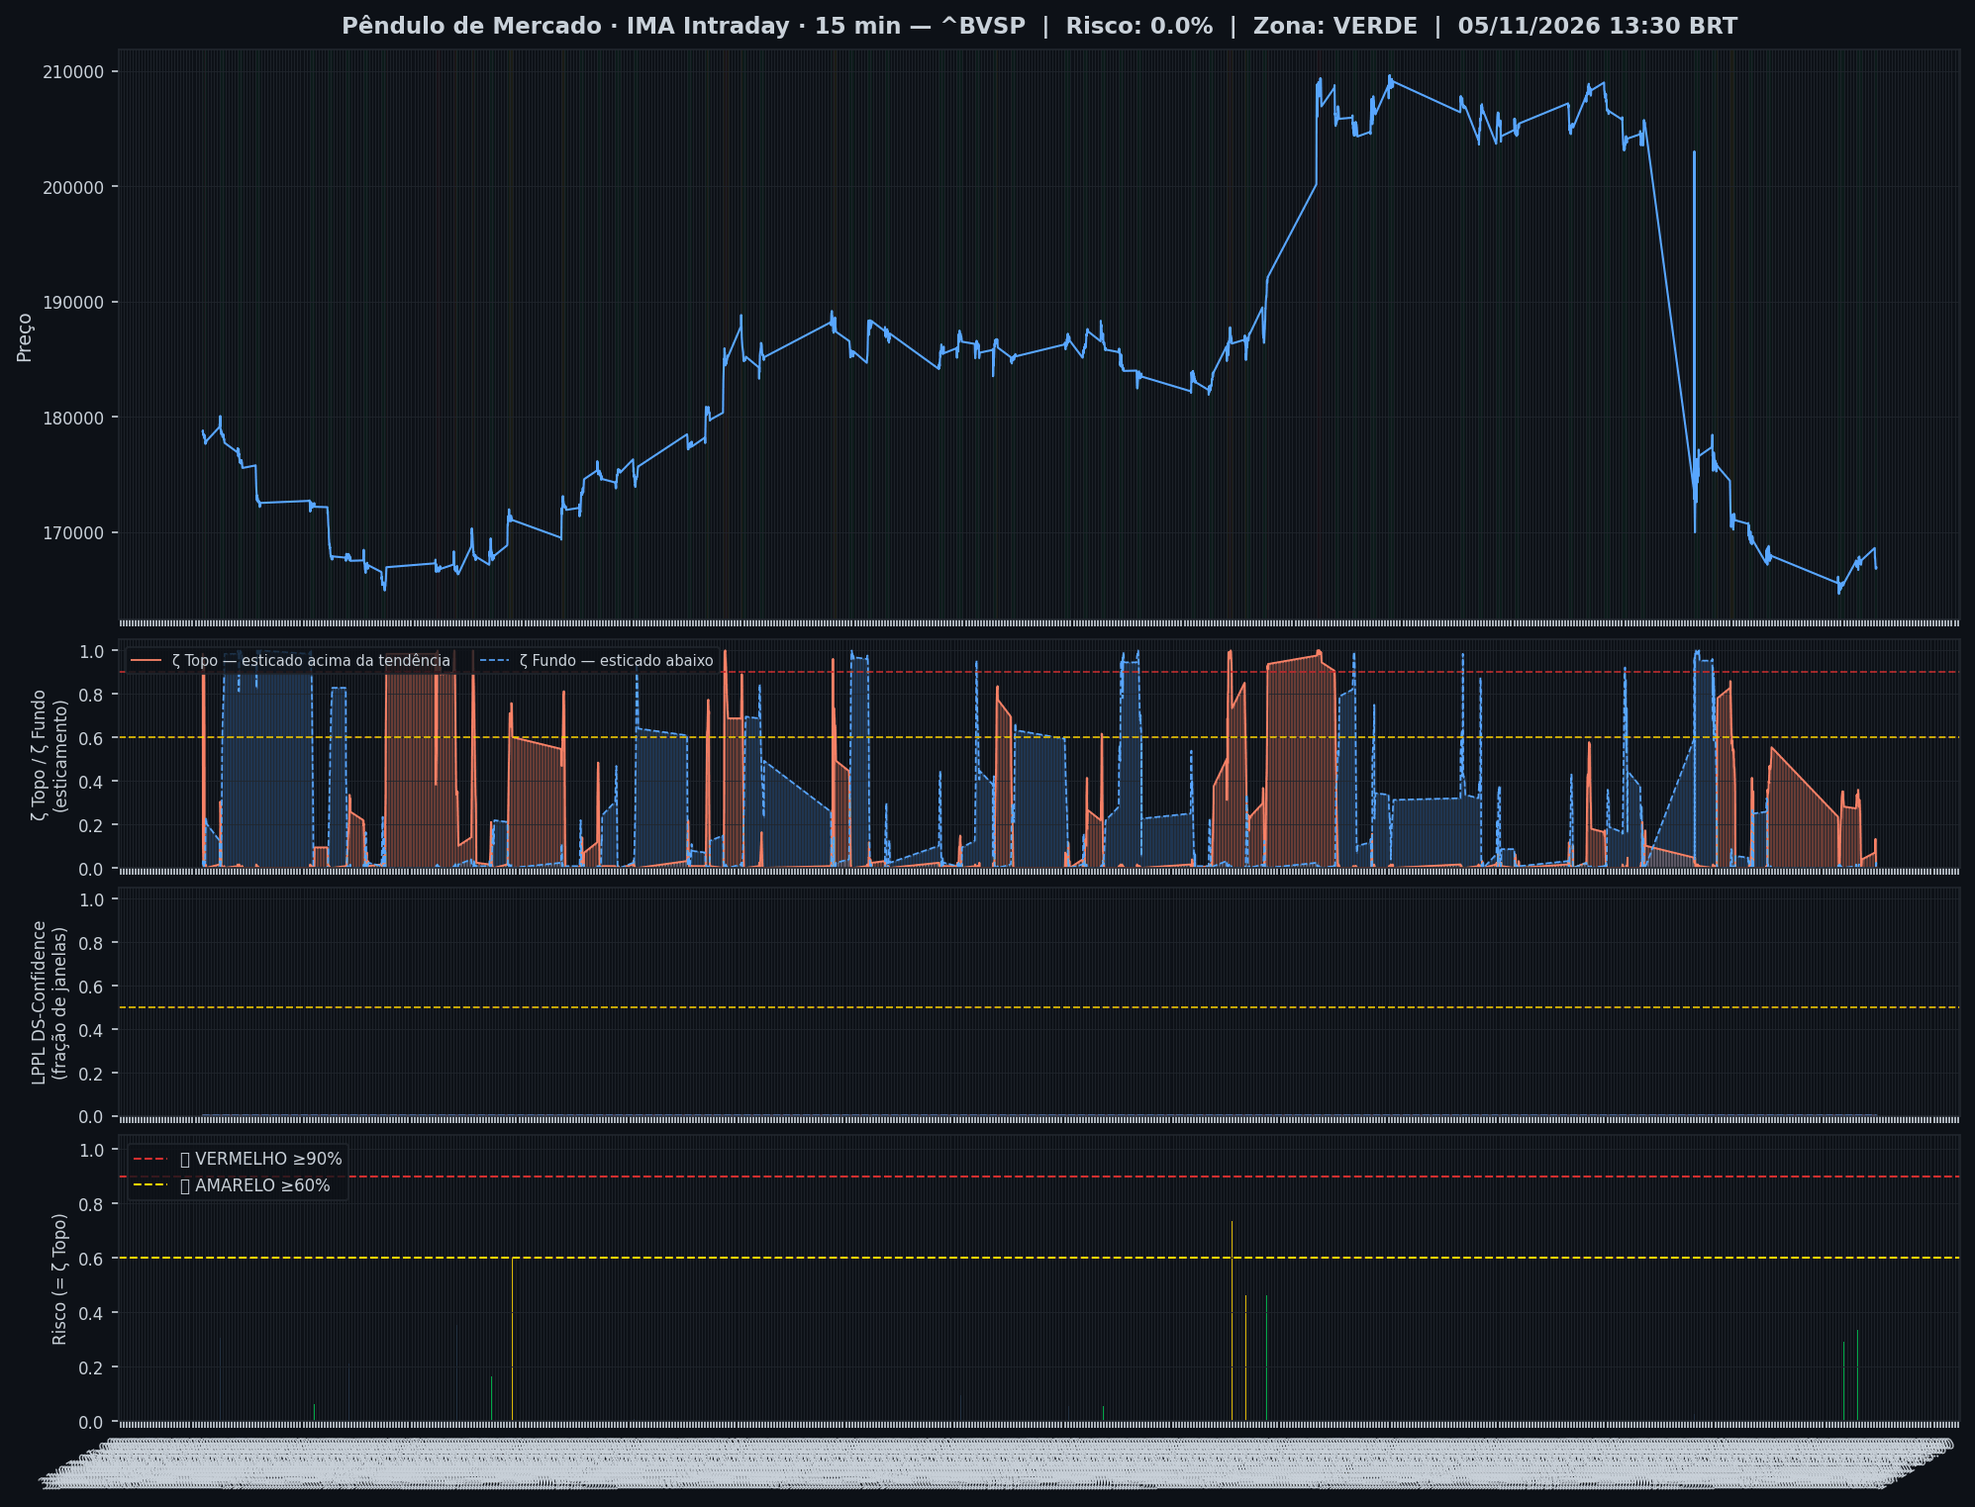
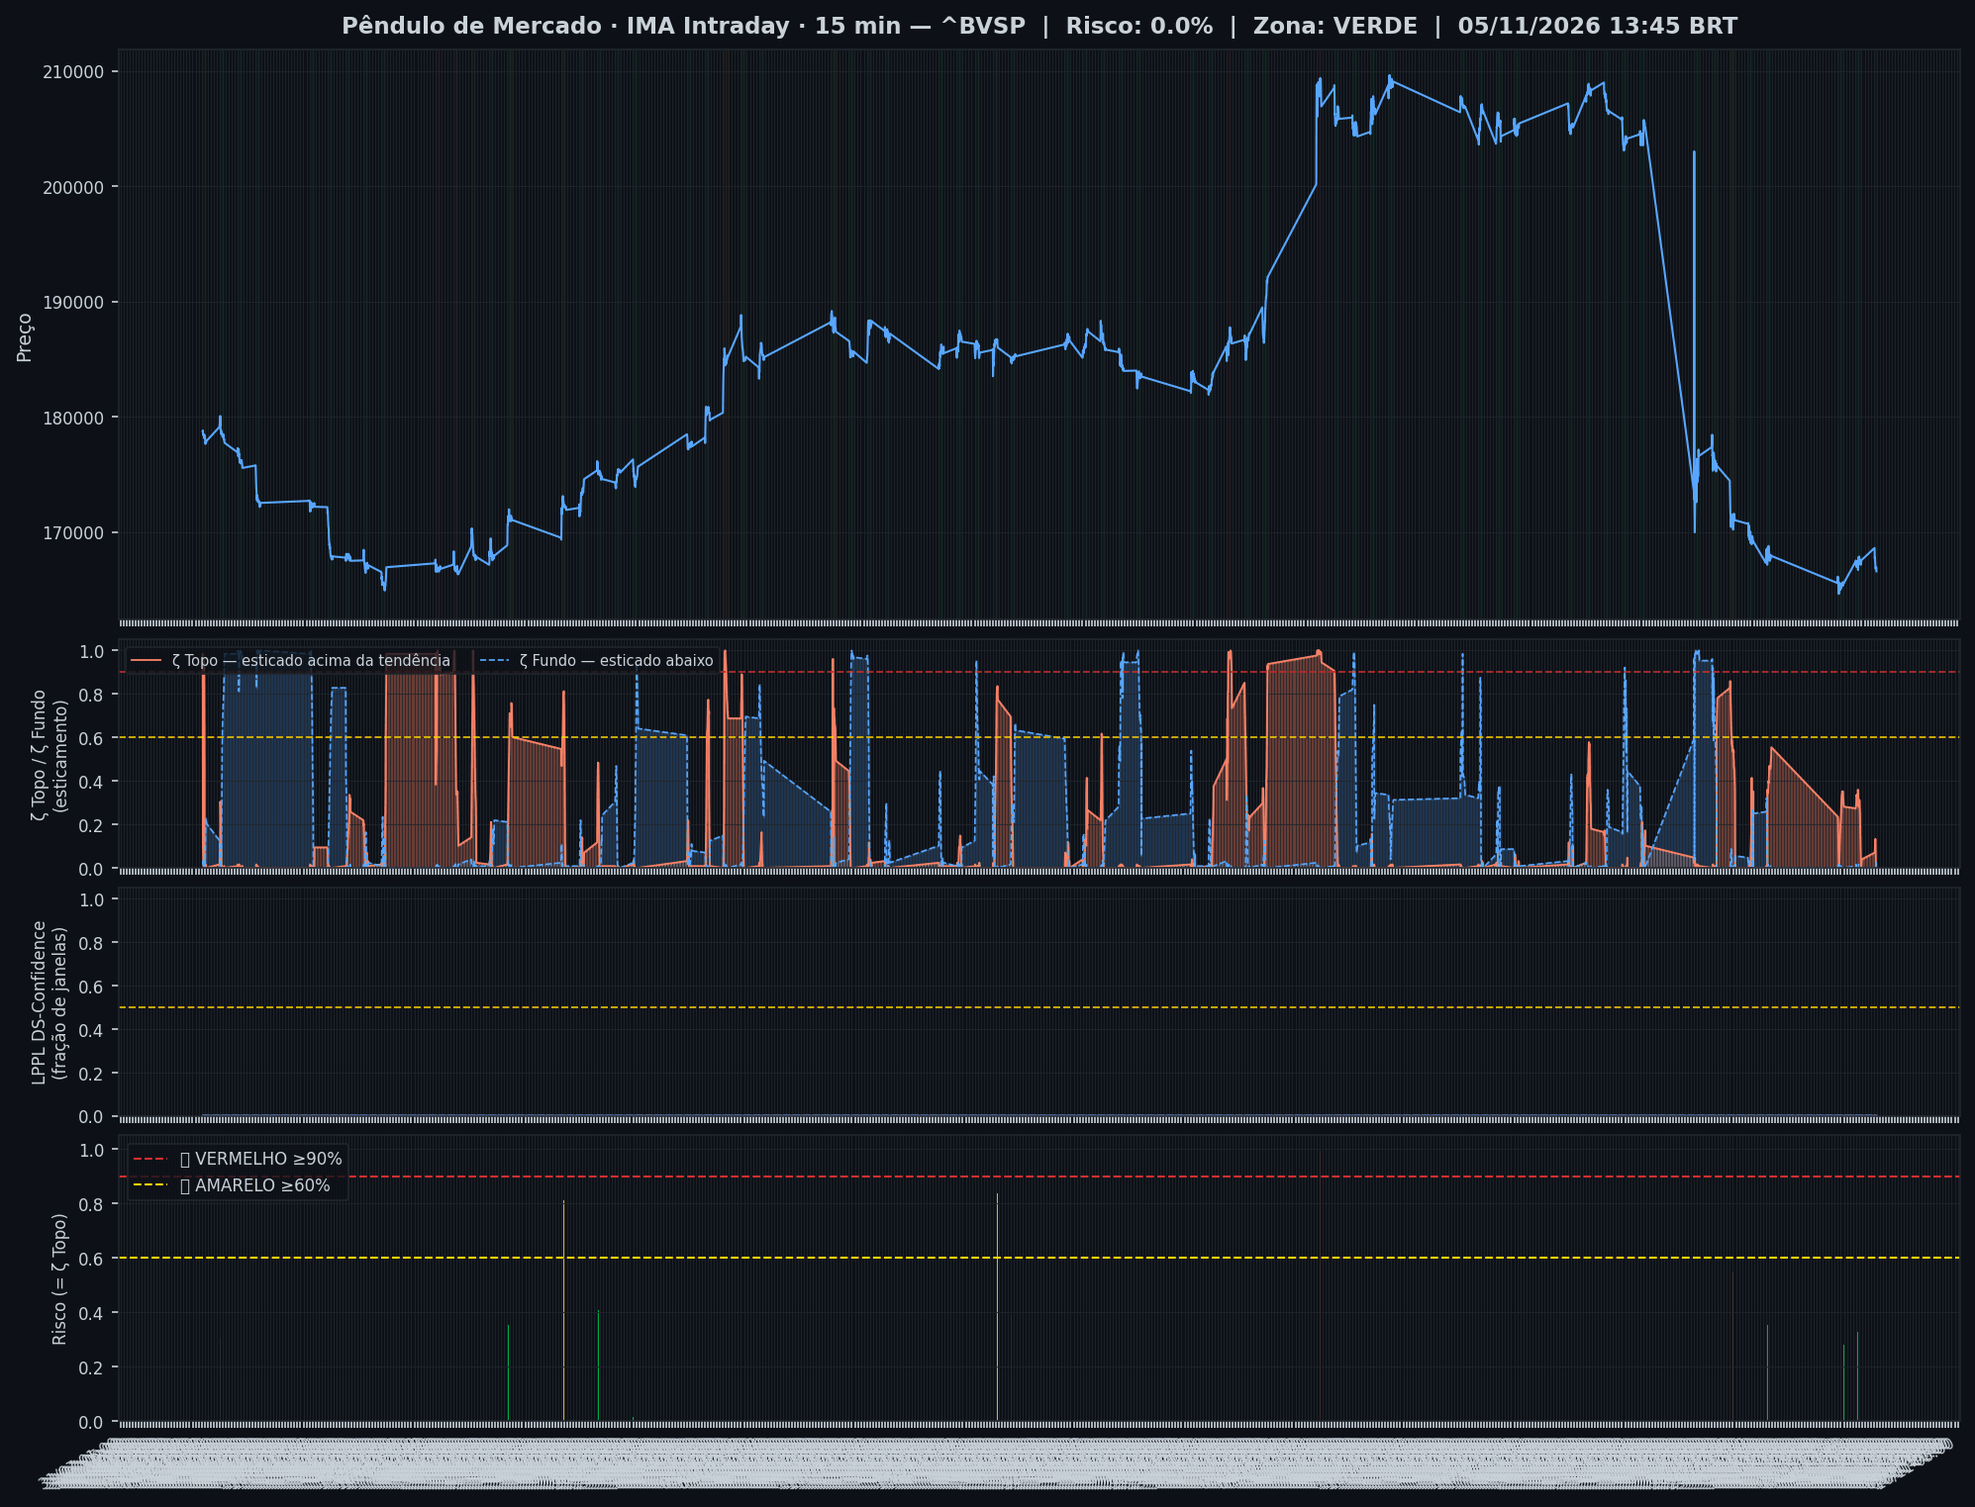
🤖 Auto: Sinal 05/11/2026 14:00

diff --git a/content/intraday/2026-11-05.md b/content/intraday/2026-11-05.md
@@ -1,10 +1,10 @@
 ---
-title: "🟢 Intraday 05/11/2026 13:30 BRT — VERDE"
+title: "🟢 Intraday 05/11/2026 13:45 BRT — VERDE"
 date: 2026-11-05
 tags: [intraday]
 ---
 
-> [!success] Onde o mercado está agora (05/11 13:30, candles de 15 min): **🟢 Calmo**
+> [!success] Onde o mercado está agora (05/11 13:45, candles de 15 min): **🟢 Calmo**
 > `Pânico ◀──────────●──────────▶ Euforia`
 >
 > O Ibovespa está dentro da sua faixa normal, sem excesso para cima nem para baixo.
@@ -16,11 +16,11 @@ tags: [intraday]
 > | Módulo | Agora | |
 > |---|---|---|
 > | 📈 **Tendência MME9** | Diário — fora<br>Semanal — fora | [abrir](operacoes/tendencia) |
-> | 🎯 **Entradas do método** | ⏳ aguardando: Diário · Nadaraya, H4 · Semáforo N2, Diário · Semáforo N3 após ζ Fundo | [abrir](operacoes/entradas) |
+> | 🎯 **Entradas do método** | ⏳ aguardando: Diário · Nadaraya, Diário · Semáforo N3 após ζ Fundo | [abrir](operacoes/entradas) |
 > | 📍 **Sinais** | hoje: nenhum sinal | [abrir](sinais-topo-fundo/) |
 > | 🧪 **Placar ao vivo** | 1 operação(ões), 0 com lucro, soma -0,8% | [abrir](operacoes/) |
 
-> [!success] IMA Intraday · 15 min (05/11 13:30): 🟢 **VERDE** — Risco 0% · ＝ +0 p.p. vs leitura anterior
+> [!success] IMA Intraday · 15 min (05/11 13:45): 🟢 **VERDE** — Risco 0% · ＝ +0 p.p. vs leitura anterior
 > `░░░░░░░░░░░░░░░░░░░░`
 > Preço na faixa normal em torno da tendência.
 
@@ -32,13 +32,13 @@ tags: [intraday]
 >
 > *Leitura educacional baseada em 26 anos de dados, não recomendação. [Como usar](../metodologia/crise#3-como-usar-na-prática).*
 
-| Indicador — IMA Intraday · 15 min (05/11 13:30) | Valor |
+| Indicador — IMA Intraday · 15 min (05/11 13:45) | Valor |
 |---|---|
 | 🔴 ζ Topo — preço esticado acima da tendência | **0%** |
-| 🔵 ζ Fundo — preço esticado abaixo da tendência | 2% |
+| 🔵 ζ Fundo — preço esticado abaixo da tendência | 0% |
 | 🫧 LPPL bolha — alta super-exponencial (risco de crash) | 0% |
 | 🫧 LPPL antibolha — queda super-exponencial (risco de repique) | 0% |
-| 📊 Ibovespa | 166.904 pts |
+| 📊 Ibovespa | 166.577 pts |
 
 ![Gráfico do sinal](../graficos/sinal_intraday.png)
 
@@ -46,6 +46,7 @@ tags: [intraday]
 
 | Data | Zona | Evento | Risco | ζ Topo | ζ Fundo | LPPL |
 |---|---|---|---|---|---|---|
+| 2026-11-05 13:45 | 🟢 VERDE |  | **0%** | 0% | 0% | 0% |
 | 2026-11-05 13:30 | 🟢 VERDE |  | **0%** | 0% | 2% | 0% |
 | 2026-11-05 13:15 | 🟢 VERDE |  | **0%** | 0% | 2% | 0% |
 | 2026-11-05 13:00 | 🟢 VERDE |  | **0%** | 0% | 2% | 0% |
@@ -75,7 +76,6 @@ tags: [intraday]
 | 2026-11-04 14:00 | 🟢 VERDE |  | **29%** | 29% | 2% | 0% |
 | 2026-11-04 13:45 | 🟢 VERDE |  | **28%** | 28% | 1% | 0% |
 | 2026-11-04 13:30 | 🟢 VERDE |  | **29%** | 29% | 0% | 0% |
-| 2026-11-04 13:15 | 🟢 VERDE |  | **34%** | 34% | 0% | 0% |
 
 <small>Destaques: 🟡 ≥ 60% · 🔴 ≥ 90% (Risco e ζ Topo) · 🔵 ≥ 60% · 🔪 ≥ 90% (ζ Fundo) · 🫧 ≥ 30% · 🫧🔴 ≥ 50% (LPPL)</small>
 
@@ -84,33 +84,33 @@ tags: [intraday]
 **0% dos ativos em tensão** (0🔴 0🟡) · **2 com ζ Fundo alto** — quanto mais ativos disparam juntos, mais confiável o sinal.
 
 > [!warning] Em destaque no multi-ativo
-> 🔵 **WEG** ζ Fundo 66% · 🔵 **PRIO** ζ Fundo 64%
+> 🔵 **WEG** ζ Fundo 68% · 🔵 **PRIO** ζ Fundo 66%
 
 | Zona | Ativo | Setor | ζ Topo | ζ Fundo |
 |---|---|---|---|---|
-| 🟢 | **WEG** | Industrial | 0.0% | 🔵 **65.6%** |
-| 🟢 | **PRIO** | Petróleo | 0.0% | 🔵 **64.1%** |
-| 🟢 | **AXIA ENERGIA** | Energia | 53.9% | 0.0% |
-| 🟢 | **AMBEV S/A** | Consumo | 42.2% | 0.0% |
-| 🟢 | **VIBRA** | Energia | 39.1% | 0.8% |
-| 🟢 | **EMBRAER** | Outros | 0.0% | 38.3% |
-| 🟢 | **COPEL** | Energia | 35.2% | 0.0% |
-| 🟢 | **PETROBRAS** | Petróleo | 0.8% | 32.0% |
-| 🟢 | **GERDAU** | Siderurgia | 0.0% | 28.9% |
-| 🟢 | **ENEVA** | Energia | 24.2% | 0.0% |
-| 🟢 | **SUZANO S.A.** | Papel/Celulose | 0.8% | 17.2% |
-| 🟢 | **ULTRAPAR** | Outros | 12.5% | 0.0% |
-| 🟢 | **REDE D OR** | Saúde | 10.2% | 0.0% |
-| 🟢 | **VALE** | Mineração | 7.8% | 0.8% |
-| 🟢 | **LOCALIZA** | Aluguel | 0.0% | 7.8% |
-| 🟢 | **B3** | Financeiro | 0.0% | 7.0% |
-| 🟢 | **BRASIL** | Financeiro | 0.0% | 6.2% |
+| 🟢 | **WEG** | Industrial | 0.0% | 🔵 **68.0%** |
+| 🟢 | **PRIO** | Petróleo | 0.0% | 🔵 **65.6%** |
+| 🟢 | **AXIA ENERGIA** | Energia | 51.6% | 0.8% |
+| 🟢 | **EMBRAER** | Outros | 0.8% | 43.0% |
+| 🟢 | **AMBEV S/A** | Consumo | 41.4% | 0.0% |
+| 🟢 | **VIBRA** | Energia | 34.4% | 0.0% |
+| 🟢 | **GERDAU** | Siderurgia | 0.8% | 28.9% |
+| 🟢 | **COPEL** | Energia | 24.2% | 0.0% |
+| 🟢 | **SUZANO S.A.** | Papel/Celulose | 0.8% | 19.5% |
+| 🟢 | **ENEVA** | Energia | 18.0% | 0.0% |
+| 🟢 | **VALE** | Mineração | 10.9% | 0.0% |
+| 🟢 | **REDE D OR** | Saúde | 9.4% | 0.0% |
+| 🟢 | **BRASIL** | Financeiro | 0.0% | 7.0% |
+| 🟢 | **LOCALIZA** | Aluguel | 0.0% | 7.0% |
+| 🟢 | **PETROBRAS** | Petróleo | 6.2% | 0.8% |
+| 🟢 | **ULTRAPAR** | Outros | 6.2% | 0.0% |
+| 🟢 | **ITAUUNIBANCO** | Financeiro | 4.7% | 0.8% |
+| 🟢 | **B3** | Financeiro | 0.0% | 4.7% |
 | 🟢 | **ITAUSA** | Financeiro | 3.9% | 0.0% |
-| 🟢 | **BTGP BANCO** | Financeiro | 3.9% | 0.8% |
-| 🟢 | **USD/BRL** | Câmbio | 3.1% | 1.6% |
-| 🟢 | **BRADESCO** | Financeiro | 0.8% | 2.3% |
-| 🟢 | **ITAUUNIBANCO** | Financeiro | 1.6% | 1.6% |
-| 🟢 | **PETROBRAS** | Petróleo | 0.8% | 0.8% |
+| 🟢 | **BTGP BANCO** | Financeiro | 3.1% | 0.8% |
+| 🟢 | **BRADESCO** | Financeiro | 2.3% | 1.6% |
+| 🟢 | **USD/BRL** | Câmbio | 0.0% | 2.3% |
+| 🟢 | **PETROBRAS** | Petróleo | 1.6% | 1.6% |
 | 🟢 | **SABESP** | Saneamento | 0.0% | 0.0% |
 | 🟢 | **EQUATORIAL** | Energia | 0.0% | 0.0% |
 
@@ -118,7 +118,7 @@ tags: [intraday]
 
 ![Monitor multi-ativo](../graficos/multi_intraday.png)
 
-*Página atualizada em 05/11/2026 13:45 BRT (leitura da barra de 2026-11-05 13:30 BRT).*
+*Página atualizada em 05/11/2026 14:00 BRT (leitura da barra de 2026-11-05 13:45 BRT).*
 
 > [!warning] O que este indicador não faz
 > Medido em 5 anos de Ibovespa, o ζ **não antecipa** topos nem fundos: a capacidade de separar o que sobe do que cai ficou em 0,49–0,52, e 0,50 é moeda jogada ao ar. Ele descreve o estado de agora; não é aviso do que vem. As zonas verde/amarelo/vermelho continuam na página como descrição desse estado — **não as use como sinal de entrada ou saída**.

diff --git a/content/index.md b/content/index.md
@@ -6,9 +6,9 @@ tags: [home]
 
 **As ondas do mercado, explicadas.** Leitura do Ibovespa com estatística de 26 anos, baseada no trabalho de pesquisadores e traders reconhecidos e adaptada por Jarbas Daniel da Costa.
 
-*Última atualização: 05/11/2026 13:45 BRT · Intraday 15min*
+*Última atualização: 05/11/2026 14:00 BRT · Intraday 15min*
 
-> [!success] Onde o mercado está agora (05/11 13:30, candles de 15 min): **🟢 Calmo**
+> [!success] Onde o mercado está agora (05/11 13:45, candles de 15 min): **🟢 Calmo**
 > `Pânico ◀──────────●──────────▶ Euforia`
 >
 > O Ibovespa está dentro da sua faixa normal, sem excesso para cima nem para baixo.
@@ -22,7 +22,7 @@ tags: [home]
 |---|---|---|
 | 🌊 **Sinal de Crise** | 🟢 VERDE · 🟢 calmo · ζ Topo 0% | [relatório](intraday/2026-11-05) |
 | 📈 **Tendência MME9** | Diário — fora<br>Semanal — fora | [abrir](operacoes/tendencia) |
-| 🎯 **Entradas do método** | ⏳ aguardando: Diário · Nadaraya, H4 · Semáforo N2, Diário · Semáforo N3 após ζ Fundo | [abrir](operacoes/entradas) |
+| 🎯 **Entradas do método** | ⏳ aguardando: Diário · Nadaraya, Diário · Semáforo N3 após ζ Fundo | [abrir](operacoes/entradas) |
 | 📍 **Sinais** | hoje: nenhum sinal | [abrir](sinais-topo-fundo/) |
 | 🧪 **Placar ao vivo** | 1 operação(ões), 0 com lucro, soma -0,8% | [abrir](operacoes/) |
 
@@ -54,18 +54,18 @@ tags: [home]
 > *Leitura educacional baseada em 26 anos de dados, não recomendação. [Como usar](metodologia/crise#3-como-usar-na-prática).*
 
 > [!info]- 🌊 Detalhes do Sinal de Crise (indicadores e últimos 7 pregões)
-> > [!success] IMA Intraday · 15 min (05/11 13:30): 🟢 **VERDE** — Risco 0% · ＝ +0 p.p. vs leitura anterior
+> > [!success] IMA Intraday · 15 min (05/11 13:45): 🟢 **VERDE** — Risco 0% · ＝ +0 p.p. vs leitura anterior
 > > `░░░░░░░░░░░░░░░░░░░░`
 > > Preço na faixa normal em torno da tendência.
 >
 >
-> | Indicador — IMA Intraday · 15 min (05/11 13:30) | Valor |
+> | Indicador — IMA Intraday · 15 min (05/11 13:45) | Valor |
 > |---|---|
 > | 🔴 ζ Topo — preço esticado acima da tendência | **0%** |
-> | 🔵 ζ Fundo — preço esticado abaixo da tendência | 2% |
+> | 🔵 ζ Fundo — preço esticado abaixo da tendência | 0% |
 > | 🫧 LPPL bolha — alta super-exponencial (risco de crash) | 0% |
 > | 🫧 LPPL antibolha — queda super-exponencial (risco de repique) | 0% |
-> | 📊 Ibovespa | 166.904 pts |
+> | 📊 Ibovespa | 166.577 pts |
 >
 > **Multi-ativo:** 0% em tensão (0🔴 0🟡 de 25 ativos)
 >
@@ -73,7 +73,7 @@ tags: [home]
 >
 > | Data | Zona | Risco | ζ Topo | ζ Fundo | LPPL |
 > |---|---|---|---|---|---|
-> | [05/11/2026](intraday/2026-11-05) | 🟢 VERDE | **0%** | 0% | 2% | 0% |
+> | [05/11/2026](intraday/2026-11-05) | 🟢 VERDE | **0%** | 0% | 0% | 0% |
 > | [04/11/2026](intraday/2026-11-04) | 🟢 VERDE | **4%** | 4% | 0% | 0% |
 >
 > <small>Destaques: 🟡 ≥ 60% · 🔴 ≥ 90% (Risco e ζ Topo) · 🔵 ≥ 60% · 🔪 ≥ 90% (ζ Fundo) · 🫧 ≥ 30% · 🫧🔴 ≥ 50% (LPPL)</small>

diff --git a/content/operacoes/entradas.md b/content/operacoes/entradas.md
@@ -15,7 +15,7 @@ description: "Compra depois de um sinal de fundo: Nadaraya no diário, semáforo
 > |---|---|---|---|
 > | [Diário · Nadaraya](tecnico/#diário) | ⏳ **aguardando** | setup FD+RSI (forte) (30/10) · entra quando o Nadaraya virar para cima no fechamento (hoje está caindo) · vale por mais 8 pregões | ✅ passou fora da amostra |
 > | [Semanal · Semáforo N2](tecnico/#semanal) | — sem setup | espera um sinal de fundo | ✅ o ganho vem do setup |
-> | [H4 · Semáforo N2](sinais-topo-fundo/todos-os-sinais#h4) | ⏳ **aguardando** | setup FD+RSI (moderado), FD+CCI (moderado) (27/10 14h) · entra quando fundo candidato em 03/11 10h (164.447): vira entrada se não houver mínima menor em 2 candles de 4h · vale por mais 0 candles de 4h | 🧪 em teste |
+> | [H4 · Semáforo N2](sinais-topo-fundo/todos-os-sinais#h4) | — sem setup | espera um sinal de fundo | 🧪 em teste |
 > | [Diário · Semáforo N3 após ζ Fundo](tecnico/#diário) | ⏳ **aguardando** | setup ζ Fundo 100% (04/11) · entra quando fundo candidato em 03/11 (164.447): vira entrada se não houver mínima menor em 11 pregões · vale por mais 10 pregões | 🧪 em observação |
 >
 > **Últimas operações** (as anteriores ao teste ao vivo são simuladas no histórico)
@@ -31,7 +31,7 @@ description: "Compra depois de um sinal de fundo: Nadaraya no diário, semáforo
 > | Diário · Semáforo N3 após ζ Fundo | 07/07/26 a 172.021 | 10/08/26 a 172.021 | **+0,0%** | stop no preço de entrada |
 > | H4 · Semáforo N2 | 12/06/26 14h a 171.134 | 15/06/26 14h a 171.134 | **+0,0%** | stop no preço de entrada |
 >
-> <small>Atualizado 04/11 19:00. Nota: ✅ passou no teste fora da amostra (walk-forward 2008–2026) · 🧪 em teste (H4, com aviso no Telegram) ou em observação (ζ, sem aviso) · 🧪 na tabela = operação do teste ao vivo.</small>
+> <small>Atualizado 04/11 19:00 · checado no pregão às 14:00. Nota: ✅ passou no teste fora da amostra (walk-forward 2008–2026) · 🧪 em teste (H4, com aviso no Telegram) ou em observação (ζ, sem aviso) · 🧪 na tabela = operação do teste ao vivo.</small>
 >
 > *Regras: depois de um sinal de fundo, o Diário entra quando o Nadaraya vira para cima; o Semanal e o H4 entram quando um fundo do semáforo fica fixo. Stop e saída de cada regra na [metodologia](metodologia/regras-de-operacao#entradas-do-método). Nenhuma regra de venda passou no teste. Os números do histórico têm viés de escolha (overfitting); o placar ao vivo é o que vale. Leitura educacional do método, não recomendação.*
 

diff --git a/content/operacoes/index.md b/content/operacoes/index.md
@@ -28,7 +28,7 @@ _Nenhuma posição aberta agora._
 | [📈 Tendência MME9 · Semanal](operacoes/tendencia) | Semanal — fora | 🧪 em teste ao vivo | 0 de 10 operações ao vivo |
 | [🎯 Diário · Nadaraya](operacoes/entradas) | ⏳ aguardando o gatilho | ✅ passou fora da amostra | 0 de 10 operações ao vivo |
 | [🎯 Semanal · Semáforo N2](operacoes/entradas) | — sem setup | ✅ o ganho vem do setup | 0 de 10 operações ao vivo |
-| [🎯 H4 · Semáforo N2](operacoes/entradas) | ⏳ aguardando o gatilho | 🧪 em teste | 🧪 1 de 10 operações ao vivo · média -0,8% · dentro do esperado |
+| [🎯 H4 · Semáforo N2](operacoes/entradas) | — sem setup | 🧪 em teste | 🧪 1 de 10 operações ao vivo · média -0,8% · dentro do esperado |
 | [🎯 Diário · Semáforo N3 após ζ Fundo](operacoes/entradas) | ⏳ aguardando o gatilho | 🧪 em observação | 0 de 10 operações ao vivo |
 
 ## 🧪 Placar ao vivo (desde 23/10/2026)

diff --git a/content/historico.md b/content/historico.md
@@ -5,7 +5,7 @@ tags: [historico]
 
 # 📜 Histórico de leituras (v5)
 
-**2.157 leituras** desde 2026-07-03. Na página ficam os últimos 3 dias leitura por leitura e o resumo de cada dia anterior; o registro inteiro está no arquivo para baixar.
+**2.158 leituras** desde 2026-07-03. Na página ficam os últimos 3 dias leitura por leitura e o resumo de cada dia anterior; o registro inteiro está no arquivo para baixar.
 
 [**Baixar o histórico completo**](historico-completo.csv) (95 KB · abre no Excel e no LibreOffice)
 
@@ -16,6 +16,7 @@ tags: [historico]
 
 | Data | Modo | Zona | Risco | IMA | LPPL |
 |---|---|---|---|---|---|
+| 2026-11-05 13:45 | intraday | 🟢 VERDE | 0% | 0% | 0% |
 | 2026-11-05 13:30 | intraday | 🟢 VERDE | 0% | 0% | 0% |
 | 2026-11-05 13:15 | intraday | 🟢 VERDE | 0% | 0% | 0% |
 | 2026-11-05 13:00 | intraday | 🟢 VERDE | 0% | 0% | 0% |

diff --git a/content/operacoes/ranking.md b/content/operacoes/ranking.md
@@ -5,7 +5,7 @@ tags: [operacoes]
 description: "As regras de compra do site ordenadas pelo resultado, com treino, teste e placar ao vivo"
 ---
 
-*Atualizado 05/11/2026 13:45 · histórico simulado com as regras congeladas em 23/10/2026 + placar ao vivo.*
+*Atualizado 05/11/2026 14:00 · histórico simulado com as regras congeladas em 23/10/2026 + placar ao vivo.*
 
 As regras de compra do site, **da que mais rendeu para a que menos rendeu**. O resultado é por operação, no índice à vista, sem custos e sem juros compostos (a soma é só a soma das operações). **Treino** = entradas de 2001 a 2013 e **teste** = 2014 em diante: uma regra só é confiável se ganhou nos dois. O único resultado sem nenhum ajuste ao histórico é o **placar ao vivo**.
 

diff --git a/content/linha-do-tempo/index.md b/content/linha-do-tempo/index.md
@@ -5,7 +5,7 @@ description: "Todo sinal, ordem, stop e aviso do Pêndulo de Mercado, do mais re
 tags: [eventos]
 ---
 
-*Atualizada 05/11/2026 13:45 BRT · a cada 15 min no pregão e às 19h.*
+*Atualizada 05/11/2026 14:00 BRT · a cada 15 min no pregão e às 19h.*
 
 Tudo o que o sistema fez ou detectou, **do mais recente para o mais antigo**: sinais de topo e fundo, ordens de compra e de venda armadas, compras, vendas, stops, avisos de 🚨 preço perto do nível e mudanças da Crise. Os **últimos 7 dias** ficam abertos; o resto, por **ano → mês → dia**.
 
